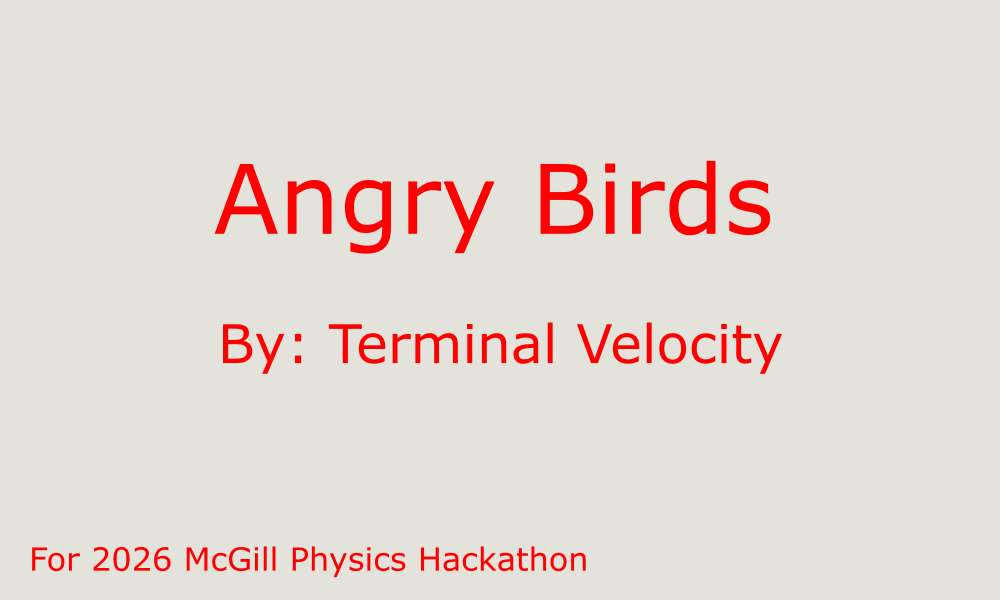
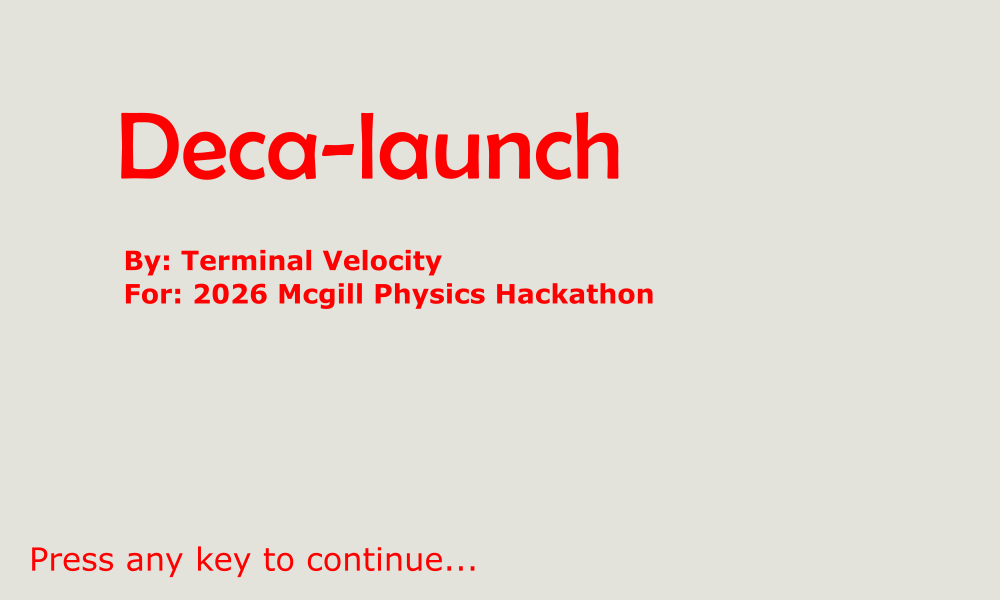
New name new tutorial: Deca-launch

Changed region(s): [[0.124, 0.18, 0.775, 0.51], [0.217, 0.54, 0.775, 0.63], [0.031, 0.9, 0.589, 0.96]]

diff --git a/test.py b/test.py
@@ -52,7 +52,7 @@ pygame.mixer.music.load('backgroundmusicforvideos-gaming-game-minecraft-backgrou
 pygame.mixer.music.play(-1)
 
 screen = pygame.display.set_mode((WIDTH, HEIGHT))
-pygame.display.set_caption("Physics Hackathon Prototype")
+pygame.display.set_caption("Deca-Launch")
 
 clock = pygame.time.Clock()
 font = pygame.font.SysFont("Arial", 18)
